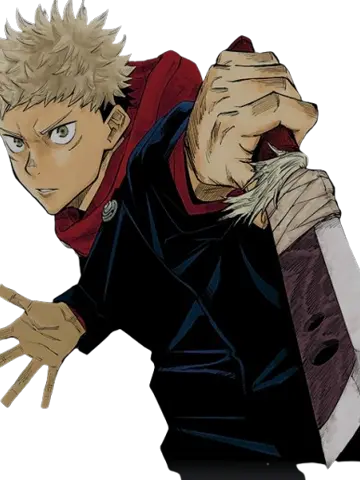
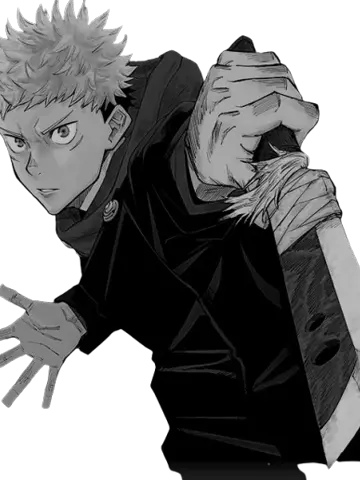
v2 : cartes de serie centrees, assombries et allegees
- le nom passe au centre de la carte, le decompte des series juste en
  dessous en dore
- « Toutes les series » devient « +71 series », lu depuis la base via
  /admin/serie-stats — demande une seule fois, sans bloquer l ouverture.
  Big 3 n a pas de sous-titre. La cle de la route etait restee en 'tout'
  depuis le renommage : corrigee en 'overall'.
- les vignettes sont assombries au repos et s eclaircissent au survol
- barre de defilement fine, dans les tons du site
- plus de titre ni de bouton Fermer sur grand ecran (clic a cote ou
  Echap) ; ils reviennent sur mobile, ou il n y a pas de « a cote »
- cartes un cran plus petites

Deux causes de saccade supprimees : le backdrop-filter du voile, qui
floutait tout l ecran pendant l animation d entree, et le filter
grayscale de six vignettes, desormais cuit a l export.

diff --git a/src/style/home.css b/src/style/home.css
@@ -9736,7 +9736,7 @@ body.game-active:has(.poll-game-container) #particles-js {
         width: min(22rem, 100%);
         max-width: none;
         margin: 0;
-        padding: 1.5rem 1.4rem 1.3rem;
+        padding: 1.3rem 1.2rem;
         background: linear-gradient(170deg, rgba(20, 19, 15, 0.99), rgba(11, 11, 13, 0.99));
         border: 0.06rem solid rgba(255, 255, 255, 0.1);
         border-radius: 1rem;
@@ -11492,8 +11492,9 @@ body.v2-sheet-open .v2q-report-btn { opacity: 0; pointer-events: none; transitio
     position: fixed;
     inset: 0;
     z-index: 1400;
-    background: rgba(6, 6, 8, 0.72);
-    backdrop-filter: blur(0.4rem);
+    /* Pas de backdrop-filter : sur toute la surface de l'écran, il coûtait
+       plus cher que tout le reste du tiroir réuni. */
+    background: rgba(6, 6, 8, 0.8);
     animation: v2SerieVeil 0.25s ease both;
 }
 
@@ -11522,27 +11523,33 @@ body.v2-sheet-open .v2q-report-btn { opacity: 0; pointer-events: none; transitio
     to   { transform: none; }
 }
 
-.v2-serie-head {
-    display: flex;
-    align-items: center;
-    justify-content: space-between;
-    gap: 1rem;
-    padding-bottom: 1rem;
-    margin-bottom: 1.1rem;
-    border-bottom: 0.06rem solid rgba(255, 255, 255, 0.07);
-}
+/* Sur grand écran on se passe d'en-tête : un clic à côté ou Échap referme */
+.v2-serie-head { display: none; }
 
 .v2-serie-head .ttl {
     font-family: 'Bebas Neue', 'Russo One', sans-serif;
-    font-size: 1.5rem;
+    font-size: 1.3rem;
     letter-spacing: 0.05em;
     color: var(--neon-primary);
 }
 
+/* Une barre de défilement discrète, dans les tons du site */
+.v2-serie-panel { scrollbar-width: thin; scrollbar-color: rgba(255, 215, 0, 0.35) transparent; }
+.v2-serie-panel::-webkit-scrollbar { width: 0.4rem; }
+.v2-serie-panel::-webkit-scrollbar-track { background: transparent; }
+
+.v2-serie-panel::-webkit-scrollbar-thumb {
+    background: rgba(255, 215, 0, 0.28);
+    border-radius: 2rem;
+    transition: background 0.2s ease;
+}
+
+.v2-serie-panel::-webkit-scrollbar-thumb:hover { background: rgba(255, 215, 0, 0.55); }
+
 .v2-serie-grille {
     display: grid;
-    grid-template-columns: repeat(auto-fill, minmax(7.2rem, 1fr));
-    gap: 0.65rem;
+    grid-template-columns: repeat(auto-fill, minmax(6.4rem, 1fr));
+    gap: 0.6rem;
 }
 
 .v2-serie-carte {
@@ -11566,40 +11573,47 @@ body.v2-sheet-open .v2q-report-btn { opacity: 0; pointer-events: none; transitio
     transition: transform 0.45s cubic-bezier(0.2, 0.9, 0.25, 1), filter 0.3s ease;
 }
 
-/* L'ombre porte le nom : sans elle, illisible sur les vignettes claires */
+/* La vignette est assombrie au repos pour que le nom se détache, et
+   s'éclaircit au survol. C'est une opacité, pas un filtre : le compositeur
+   la gère seul, sans repeindre l'image. */
 .v2-serie-ombre {
     position: absolute;
-    inset: 40% 0 0 0;
-    background: linear-gradient(180deg, transparent, rgba(6, 6, 8, 0.92));
+    inset: 0;
+    background: linear-gradient(180deg, rgba(6, 6, 8, 0.5), rgba(6, 6, 8, 0.82));
+    transition: opacity 0.25s ease;
 }
+
+.v2-serie-carte:not(.soon):hover .v2-serie-ombre { opacity: 0.45; }
 
 .v2-serie-carte .nm {
     position: absolute;
-    left: 0.55rem;
-    right: 0.55rem;
-    bottom: 0.55rem;
+    inset: 0;
     display: flex;
     flex-direction: column;
-    gap: 0.1rem;
-    font-size: 0.72rem;
+    align-items: center;
+    justify-content: center;
+    gap: 0.22rem;
+    padding: 0.5rem 0.45rem;
+    font-size: 0.74rem;
     font-weight: 700;
-    line-height: 1.2;
-    text-align: left;
+    line-height: 1.25;
+    text-align: center;
     color: #fff;
-    text-shadow: 0 0.1rem 0.5rem rgba(0, 0, 0, 0.8);
+    text-shadow: 0 0.1rem 0.6rem rgba(0, 0, 0, 0.9);
 }
 
-/* Les trois ensembles disent ce qu'ils recouvrent */
+/* Le décompte des séries, sous le nom */
 .v2-serie-carte .nm em {
     font-style: normal;
-    font-size: 0.56rem;
-    font-weight: 600;
-    line-height: 1.25;
-    color: rgba(255, 255, 255, 0.55);
+    font-size: 0.58rem;
+    font-weight: 700;
+    letter-spacing: 0.06em;
+    color: var(--neon-primary);
+    text-shadow: 0 0.1rem 0.5rem rgba(0, 0, 0, 0.9);
 }
 
-.v2-serie-carte:not(.soon):hover { border-color: rgba(255, 215, 0, 0.5); transform: translateY(-0.2rem); }
-.v2-serie-carte:not(.soon):hover img { transform: scale(1.06); }
+.v2-serie-carte:not(.soon):hover { border-color: rgba(255, 215, 0, 0.5); transform: translateY(-0.18rem); }
+.v2-serie-carte:not(.soon):hover img { transform: scale(1.05); }
 
 .v2-serie-carte.on {
     border-color: var(--neon-primary);
@@ -11608,21 +11622,22 @@ body.v2-sheet-open .v2q-report-btn { opacity: 0; pointer-events: none; transitio
 
 .v2-serie-carte .coche {
     position: absolute;
-    top: 0.45rem;
-    right: 0.45rem;
-    width: 1.5rem;
-    height: 1.5rem;
-    padding: 0.3rem;
+    top: 0.4rem;
+    right: 0.4rem;
+    width: 1.25rem;
+    height: 1.25rem;
+    padding: 0.25rem;
     color: #14100a;
     background: var(--neon-primary);
     border-radius: 50%;
 }
 
 /* Pas encore jouable : la vignette reste visible, mais éteinte */
+/* La désaturation est cuite dans la vignette à l'export : un filter CSS
+   sur six images forçait autant de couches de composition à l'ouverture. */
 .v2-serie-carte.soon { cursor: default; }
-.v2-serie-carte.soon img { filter: grayscale(1) brightness(0.45); }
-
-.v2-serie-carte.soon .nm { color: rgba(255, 255, 255, 0.45); }
+.v2-serie-carte.soon .v2-serie-ombre { background: linear-gradient(180deg, rgba(6, 6, 8, 0.72), rgba(6, 6, 8, 0.9)); }
+.v2-serie-carte.soon .nm { color: rgba(255, 255, 255, 0.42); }
 
 .v2-serie-carte .bientot {
     position: absolute;
@@ -11645,7 +11660,17 @@ body.v2-sheet-open .v2q-report-btn { opacity: 0; pointer-events: none; transitio
         width: 94vw;
         padding: 1.2rem 1rem 1.1rem;
     }
-    .v2-serie-head .ttl { font-size: 1.3rem; }
-    .v2-serie-grille { grid-template-columns: repeat(auto-fill, minmax(6.6rem, 1fr)); gap: 0.55rem; }
-    .v2-serie-carte .nm { font-size: 0.65rem; }
+    /* Sur petit écran, il n'y a pas de « à côté » où cliquer : l'en-tête revient */
+    .v2-serie-head {
+        display: flex;
+        align-items: center;
+        justify-content: space-between;
+        gap: 1rem;
+        padding-bottom: 0.9rem;
+        margin-bottom: 1rem;
+        border-bottom: 0.06rem solid rgba(255, 255, 255, 0.07);
+    }
+
+    .v2-serie-grille { grid-template-columns: repeat(auto-fill, minmax(5.8rem, 1fr)); gap: 0.5rem; }
+    .v2-serie-carte .nm { font-size: 0.66rem; padding: 0.4rem 0.35rem; }
 }

diff --git a/src/script/app.js b/src/script/app.js
@@ -52,14 +52,15 @@ createApp({
             serieFilter: 'overall',
             noSpoil: false,
             showSeries: false,    // le tiroir de choix de série est-il ouvert
+            serieStats: null,     // combien de séries derrière Overall et Mainstream
             // Une seule liste : les trois ensembles ouvrent la marche, les séries
             // suivent. 'soon' = la vignette est prête, le filtre serveur non.
             // Vignettes en WebP 360×480 (src/img/series) : les sources d'origine
             // pesaient 3,7 Mo à elles seules et faisaient ramer l'ouverture.
             serieCartes: [
-                { id: 'overall',     name: 'Overall',    sub: 'Toutes les séries',        img: 'series/overall.webp' },
-                { id: 'mainstream',  name: 'Mainstream', sub: 'Les grands titres',        img: 'series/mainstream.webp' },
-                { id: 'big3',        name: 'Big 3',      sub: 'One Piece · Naruto · Bleach', img: 'series/big3.webp' },
+                { id: 'overall',     name: 'Overall',    compte: true, img: 'series/overall.webp' },
+                { id: 'mainstream',  name: 'Mainstream', compte: true, img: 'series/mainstream.webp' },
+                { id: 'big3',        name: 'Big 3',                    img: 'series/big3.webp' },
                 { id: 'onepiece',    name: 'One Piece',   img: 'series/onepiece.webp' },
                 { id: 'naruto',      name: 'Naruto',      img: 'series/naruto.webp' },
                 { id: 'dragonball',  name: 'Dragon Ball', img: 'series/dragonball.webp' },
@@ -1132,6 +1133,23 @@ createApp({
 
         // Tous les réglages passent par la même route POST, avec application
         // optimiste côté client et retour arrière si le serveur refuse.
+        // Le décompte vient de la base : on le demande une fois, sans bloquer
+        // l'ouverture du tiroir — les sous-titres apparaissent quand ils arrivent.
+        async ouvrirSeries() {
+            this.showSeries = true;
+            if (this.serieStats) return;
+            try {
+                const res = await this.hostFetch('/admin/serie-stats');
+                if (res.ok) this.serieStats = await res.json();
+            } catch (e) { /* pas de sous-titre, le tiroir reste utilisable */ }
+        },
+
+        sousTitreSerie(carte) {
+            if (!carte.compte || !this.serieStats) return '';
+            const n = (this.serieStats[carte.id] || {}).series;
+            return n ? '+' + n + ' séries' : '';
+        },
+
         // Le tiroir se referme dès le choix fait : une seule série à la fois
         choisirSerie(id) {
             if (id === this.serieFilter) { this.showSeries = false; return; }

diff --git a/src/html/home.html b/src/html/home.html
@@ -442,7 +442,7 @@
 
                                 <!-- Le choix de la série ouvre un tiroir : les vignettes ne
                                      tiennent pas dans la colonne des réglages. -->
-                                <button class="v2-set v2-set-porte" @click="showSeries = true">
+                                <button class="v2-set v2-set-porte" @click="ouvrirSeries">
                                     <svg class="v2-set-ic" viewBox="0 0 24 24"><path d="M2 12s3.5-7 10-7 10 7 10 7-3.5 7-10 7-10-7-10-7z"/><circle cx="12" cy="12" r="3"/></svg>
                                     <span class="v2-set-label">Série</span>
                                     <span class="v2-set-value">{{ serieFilterName }}</span>
@@ -1474,6 +1474,8 @@
         <!-- Choix de la série : un tiroir qui entre par la gauche -->
         <div class="v2-serie-veil" v-if="showSeries" @click.self="showSeries = false">
             <aside class="v2-serie-panel">
+                <!-- Le titre et le bouton ne servent que sur petit écran : ailleurs,
+                     le voile se referme d'un clic à côté ou avec Échap. -->
                 <div class="v2-serie-head">
                     <span class="ttl">Série</span>
                     <button class="v2q-sheet-close" @click="showSeries = false">Fermer</button>
@@ -1483,9 +1485,12 @@
                     <button v-for="s in serieCartes" :key="s.id"
                             class="v2-serie-carte" :class="{ on: serieFilter === s.id, soon: s.soon }"
                             :disabled="s.soon" @click="choisirSerie(s.id)">
-                        <img :src="s.img" :alt="s.name" loading="lazy">
+                        <img :src="s.img" :alt="s.name" loading="lazy" decoding="async">
                         <span class="v2-serie-ombre"></span>
-                        <span class="nm">{{ s.name }}<em v-if="s.sub">{{ s.sub }}</em></span>
+                        <span class="nm">
+                            {{ s.name }}
+                            <em v-if="sousTitreSerie(s)">{{ sousTitreSerie(s) }}</em>
+                        </span>
                         <span class="bientot" v-if="s.soon">Bientôt</span>
                         <svg class="coche" v-if="serieFilter === s.id" viewBox="0 0 24 24" fill="none" stroke="currentColor" stroke-width="3" stroke-linecap="round" stroke-linejoin="round">
                             <path d="M20 6L9 17l-5-5"/>

diff --git a/server.js b/server.js
@@ -1973,8 +1973,9 @@ app.get('/admin/serie-stats', async (req, res) => {
         // 🔥 AUTOMATIQUE: Générer les stats pour chaque filtre dans SERIES_FILTERS
         for (const [filterId, filterConfig] of Object.entries(SERIES_FILTERS)) {
             if (filterId === 'overall') {
-                stats.tout = {
+                stats.overall = {
                     count: allQuestions.length,
+                    series: totalSeries,
                     subtitle: `${totalSeries} séries`
                 };
             } else if (filterId === 'mainstream') {
@@ -1985,6 +1986,7 @@ app.get('/admin/serie-stats', async (req, res) => {
                 );
                 stats.mainstream = {
                     count: mainstreamSeriesWithQuestions.size,
+                    series: mainstreamSeriesWithQuestions.size,
                     subtitle: `${mainstreamSeriesWithQuestions.size} séries`
                 };
             } else {
